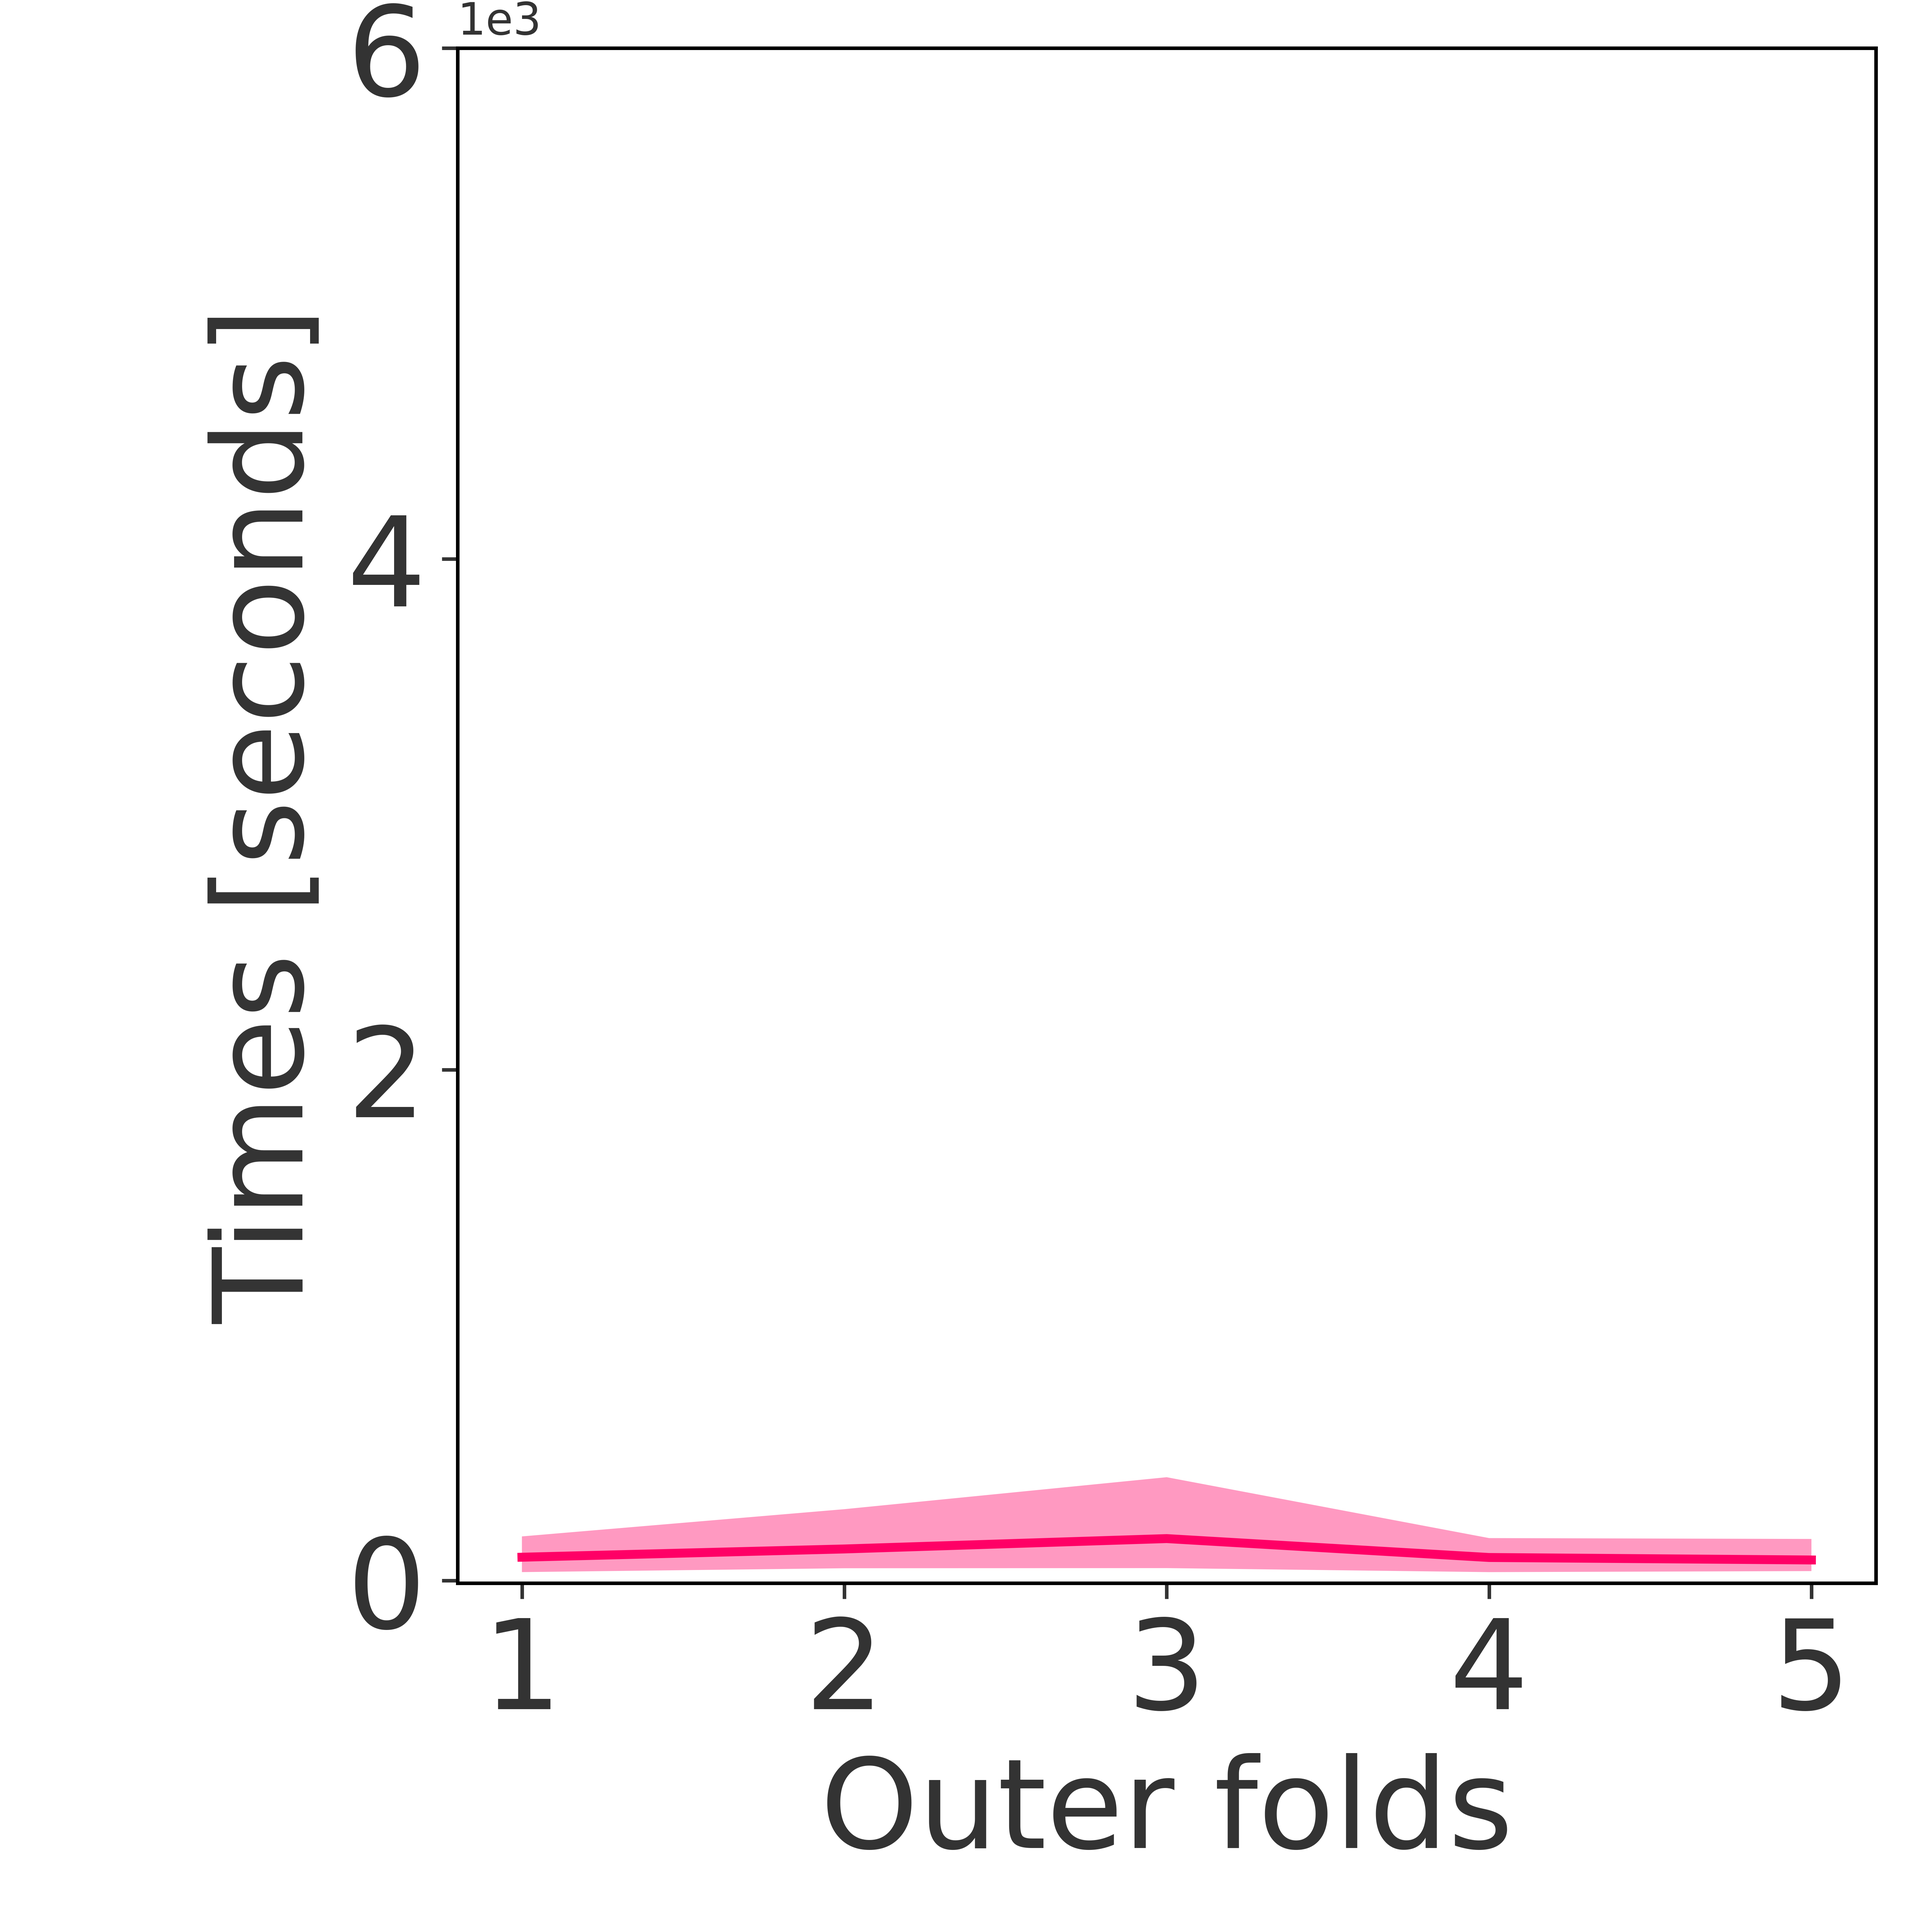
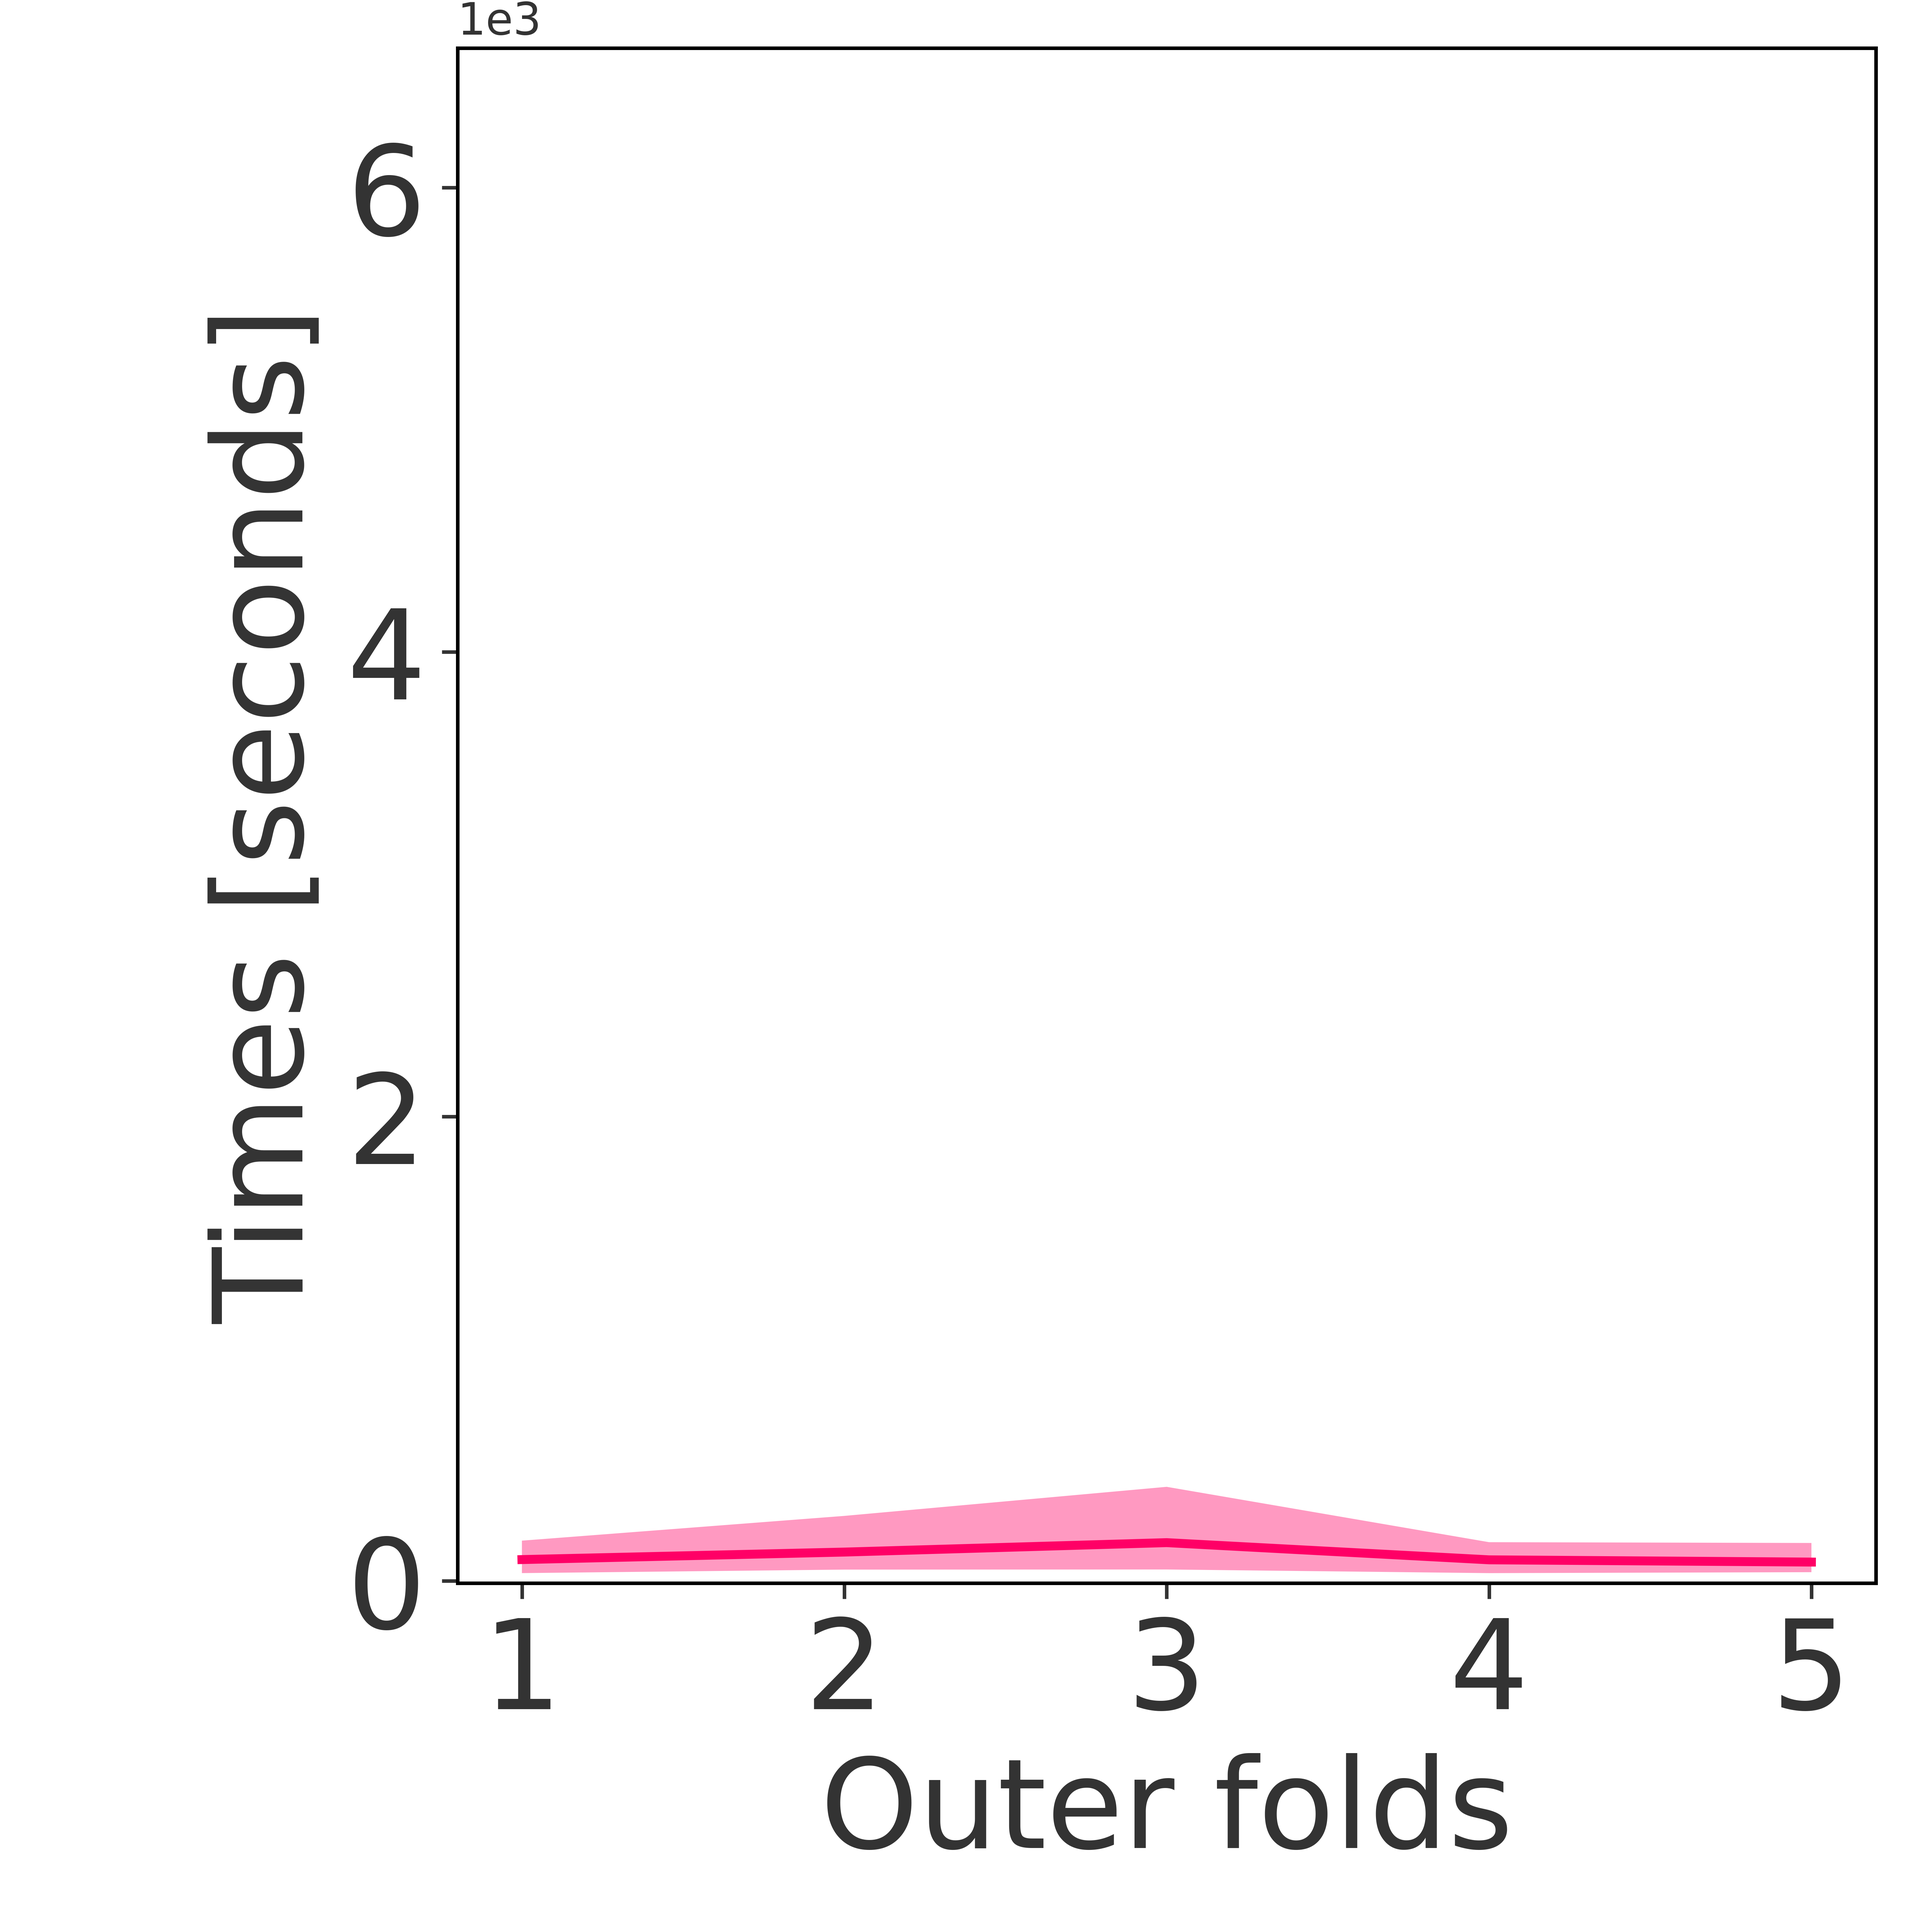
Modified the training times.

diff --git a/code/plot/22_prob_ff_hydro_short_fc_cv_optuna.py b/code/plot/22_prob_ff_hydro_short_fc_cv_optuna.py
@@ -170,7 +170,7 @@ for loss_func in ["bce", "weighted_bce"]:
                         os.makedirs(dir_out_temp, exist_ok=True)        
                         plt.savefig(f'{dir_out_temp}/training_time.png', dpi=1000)
 
-                        plt.ylim([-10,6000])
+                        plt.ylim([-10,6600])
                         plt.ticklabel_format(axis='y', style='sci', scilimits=(0,0))
 
                         dir_out_temp = f'{git_repo}/{dir_out}/{loss_func}/{eval_metric}/{ml_trained}'
